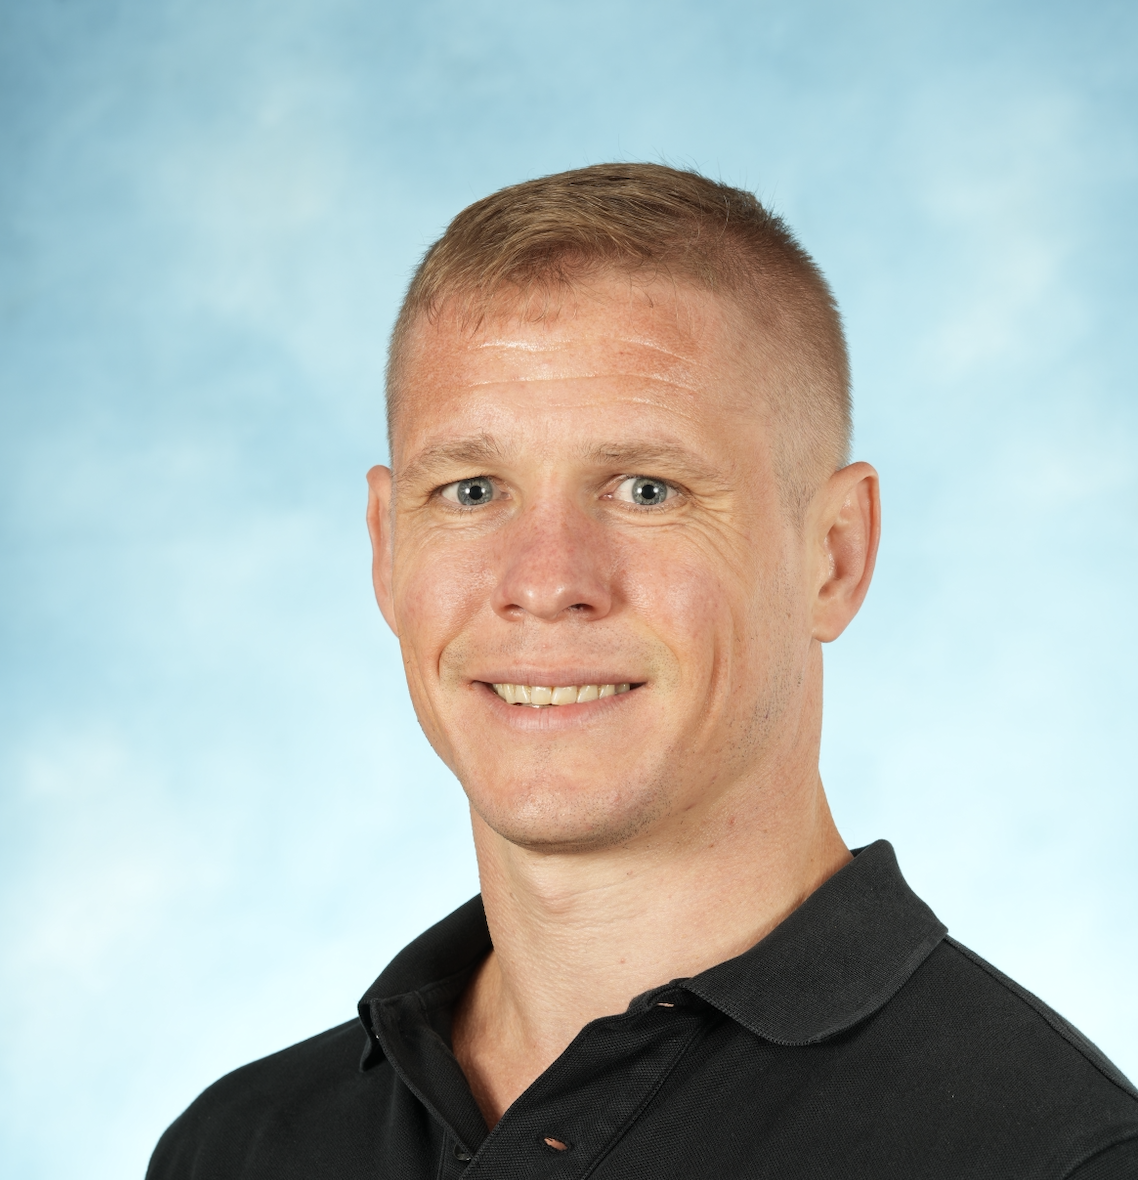
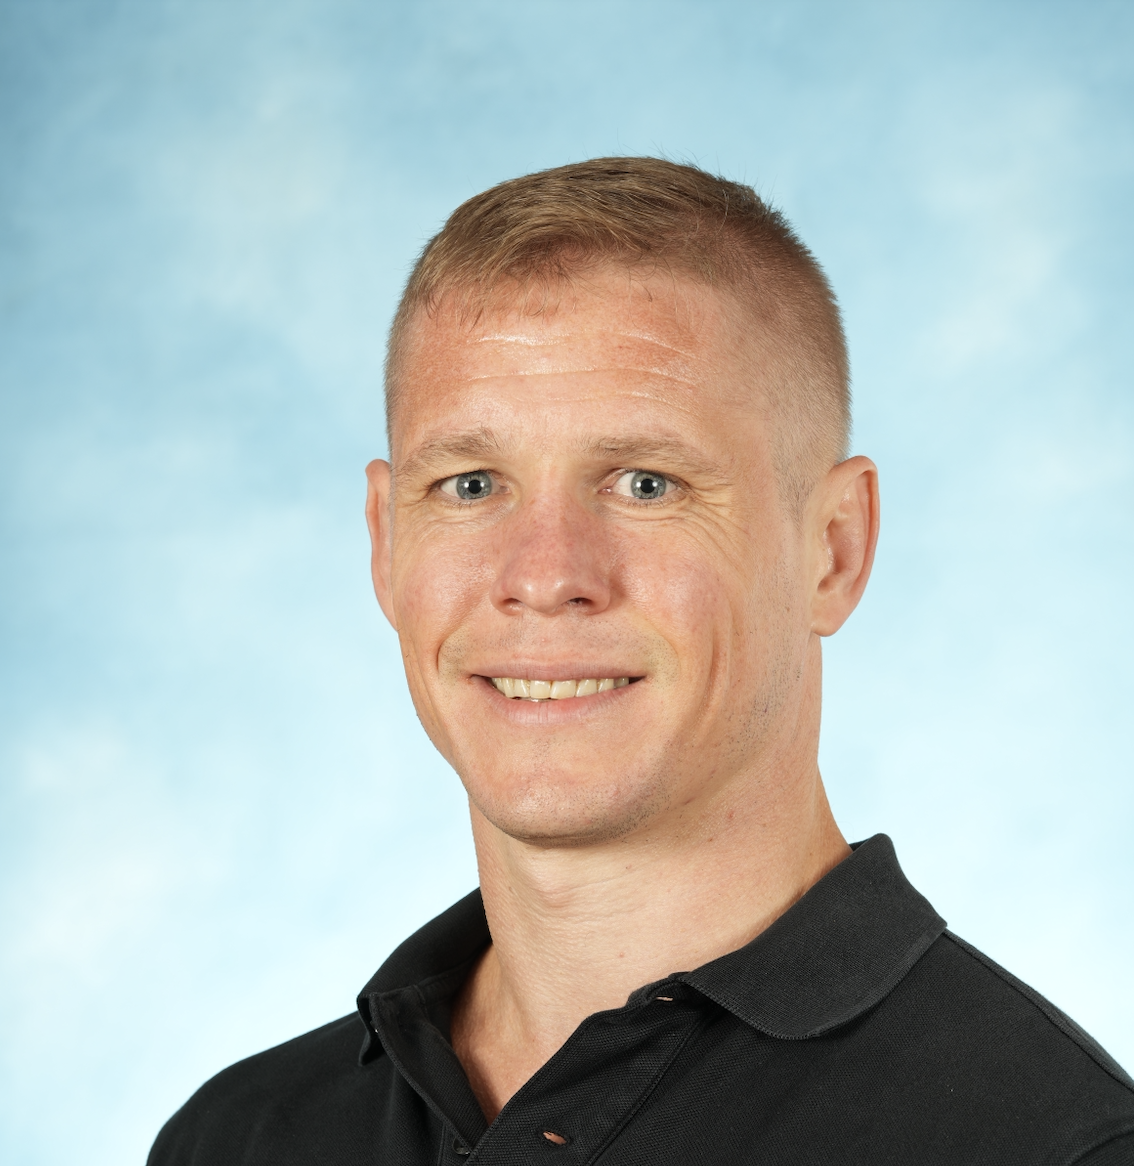
fixed imgs

diff --git a/index.html b/index.html
@@ -113,7 +113,7 @@
 							<div class="2u 12u$(medium)">
 								<blockquote class="testimonial">
 									<cite>
-										<span class="image style2"><img src="images/speakers_2025/jingqiu_guan.JPG" alt="" /></span>
+										<span class="image style2"><img src="images/speakers_2025/jingqiu_guan.jpg" alt="" /></span>
 										<span class="name">Jingqiu Guan</span>
 										<span class="title"> ...</span>
 									</cite>
